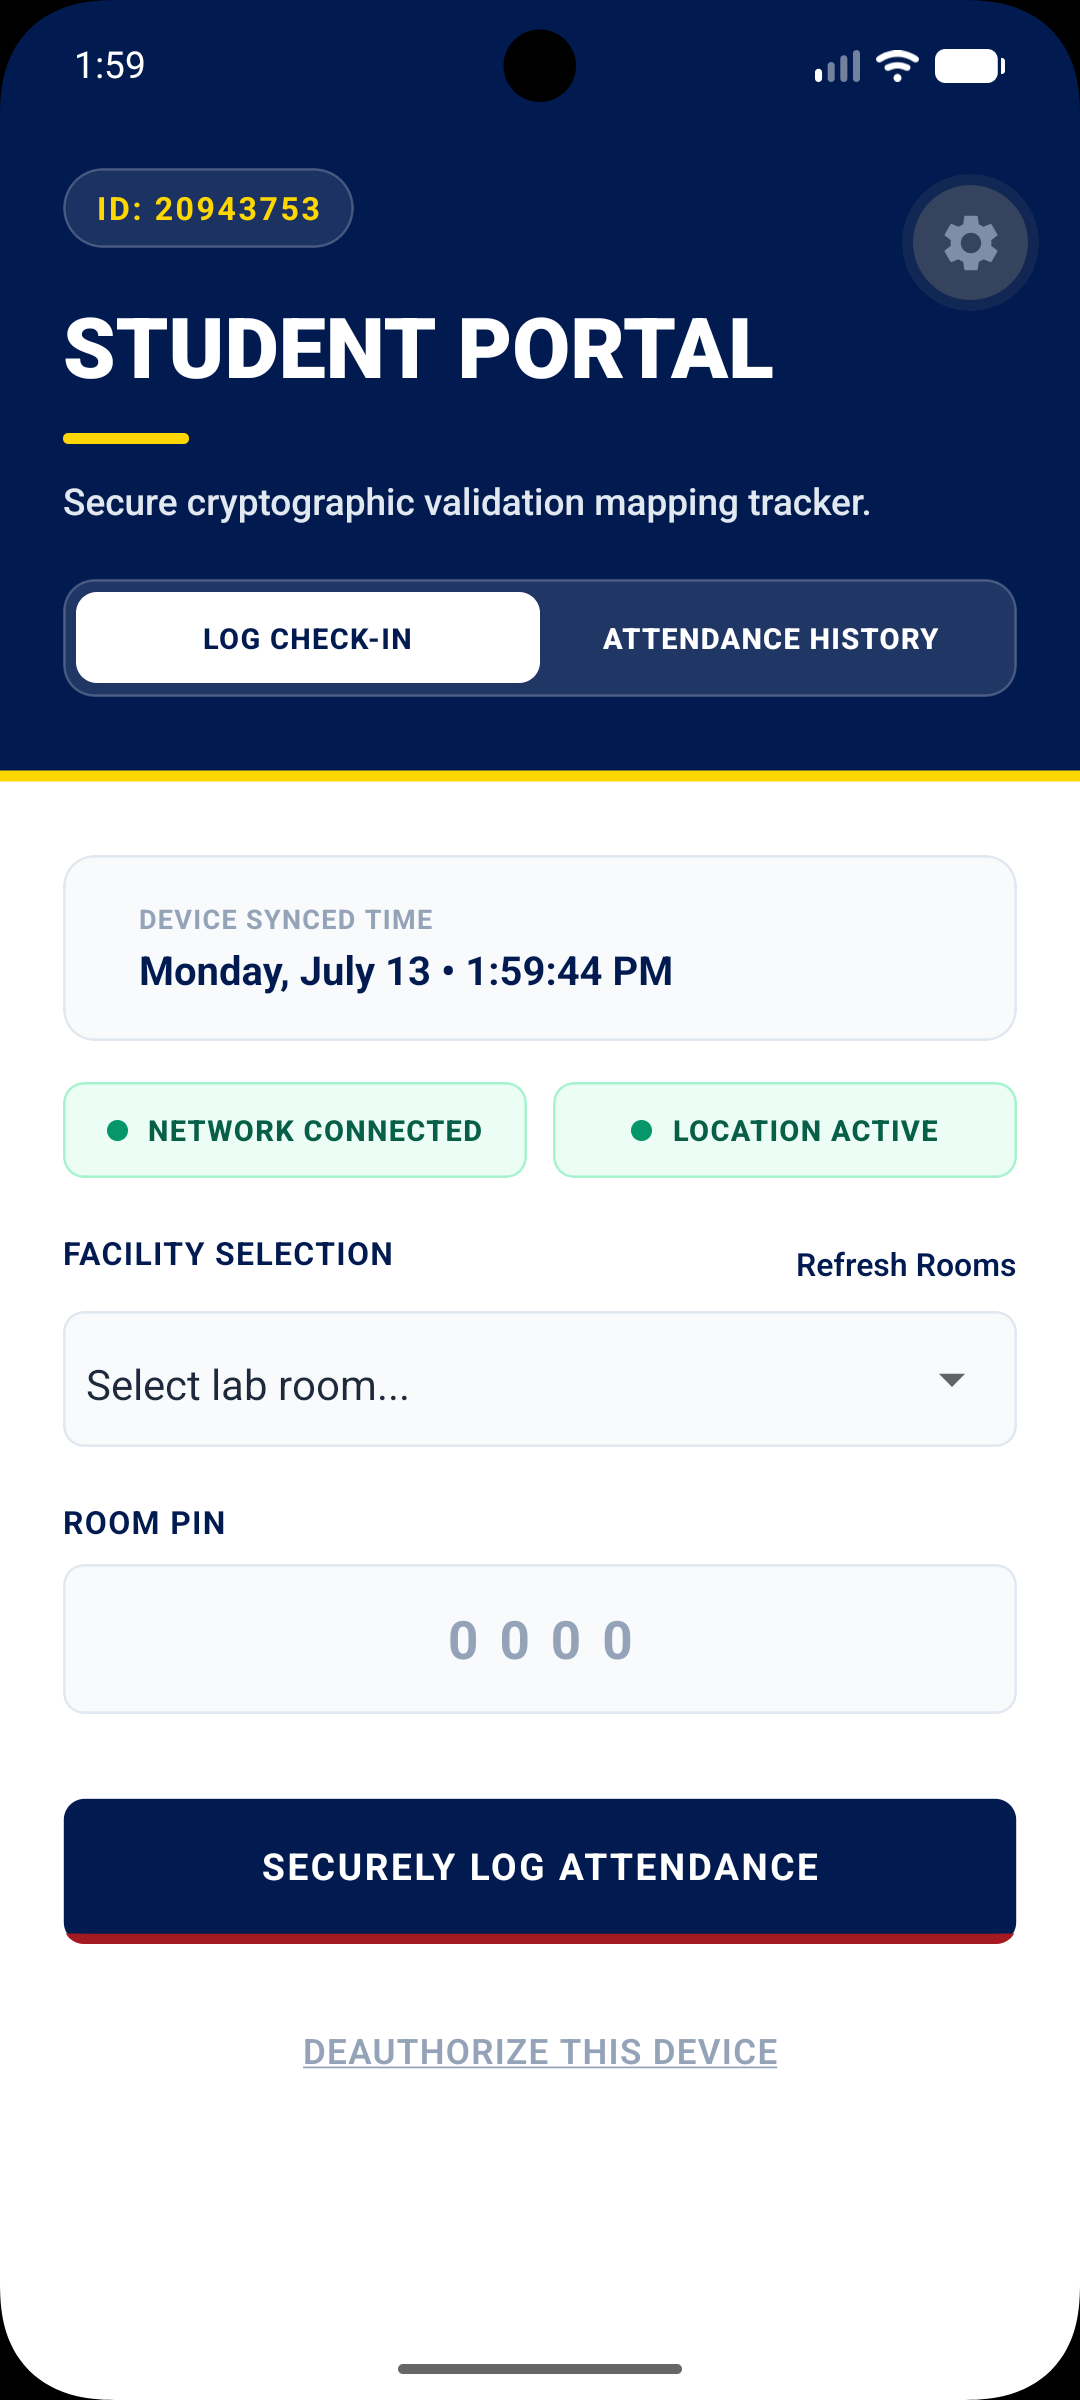
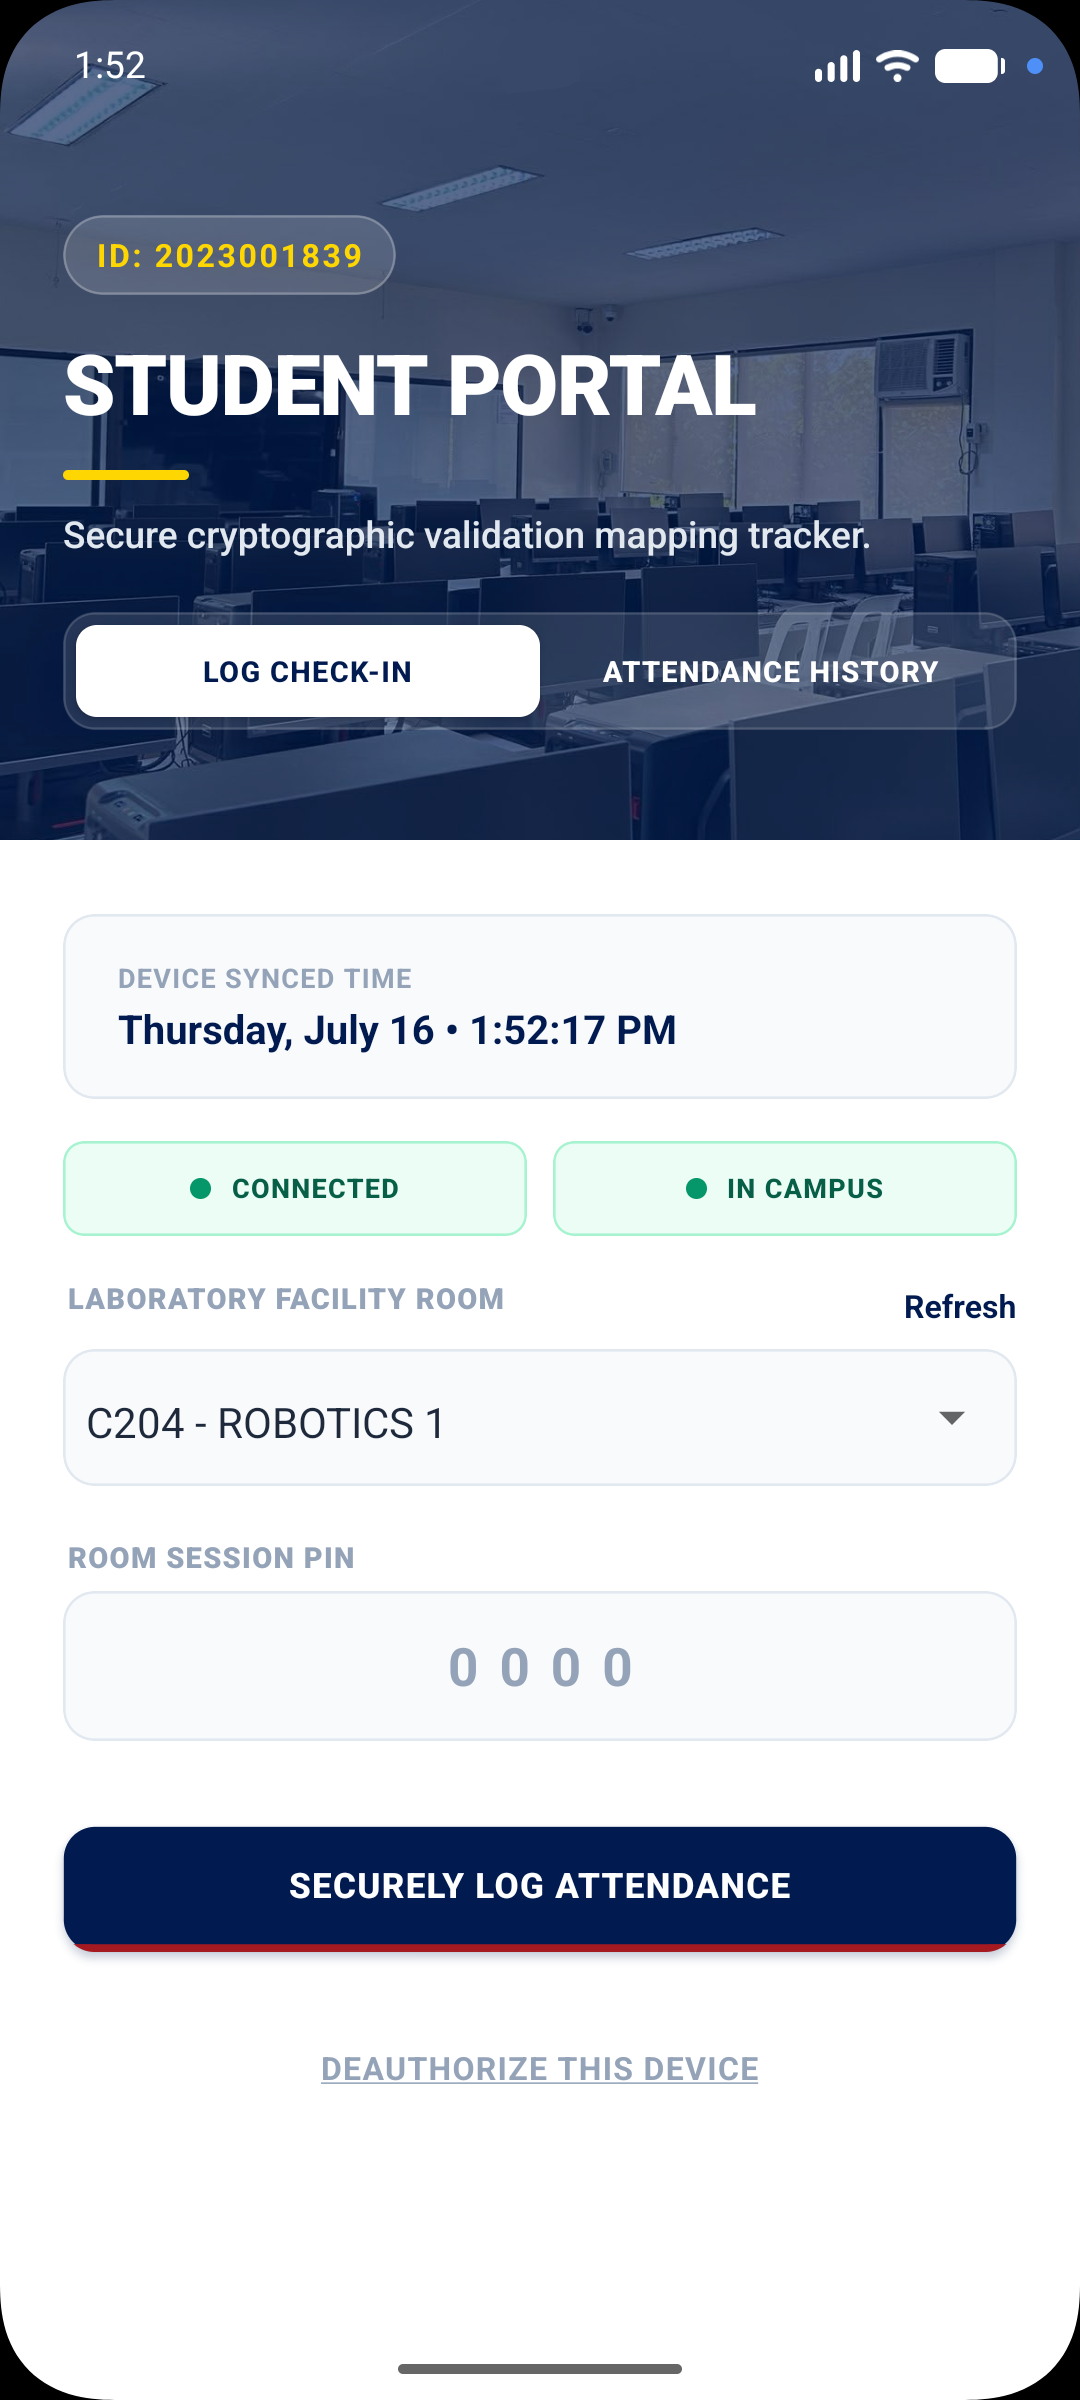
Updated landing page

diff --git a/app/components/Header.tsx b/app/components/Header.tsx
@@ -48,7 +48,12 @@ export default function Header({ onNavigateSection, forceSolid = false }: Header
         aria-label="Main Navigation"
       >
         {/* Brand Logo and Name */}
-        <Link href="/" className="flex items-center space-x-2.5 sm:space-x-3.5 group shrink-0">
+        <Link href="/" className="flex items-center space-x-2.5 sm:space-x-3.5 group shrink-0"
+              onClick={(e) => {
+                e.preventDefault(); // Prevents the "#" from being added to your URL
+                window.scrollTo({ top: 0, behavior: 'smooth' }); // Scrolls smoothly to the very top
+        }}>
+
           <div className="w-9 h-9 sm:w-10 sm:h-10 relative overflow-hidden transition-transform group-hover:scale-105 rounded-full bg-white p-1 shadow-xs shrink-0">
             <img
               src="/ua-logo.png"
